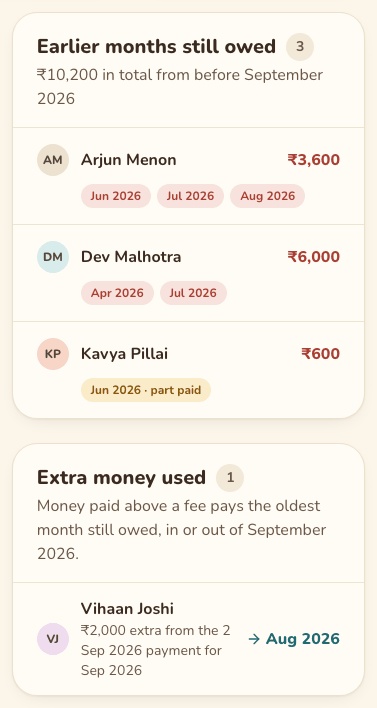
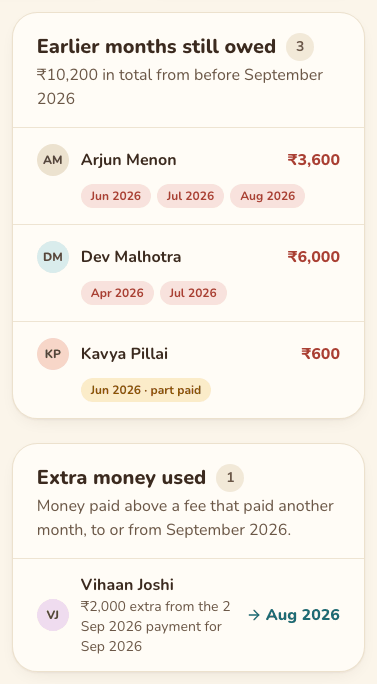
fix(ui): plainer words under Extra money used

diff --git a/frontend/src/pages/dashboard-page.tsx b/frontend/src/pages/dashboard-page.tsx
@@ -519,7 +519,7 @@ function CreditMoves({ items, month }: { items: CreditMoveItem[]; month: string 
       className="min-w-0"
       title="Extra money used"
       count={items.length}
-      description={`Money paid above a fee pays the oldest month still owed, in or out of ${formatMonth(month)}.`}
+      description={`Money paid above a fee that paid another month, to or from ${formatMonth(month)}.`}
     >
       <ul className="divide-y divide-border/70 border-t border-border/70">
         {items.map((item) => (
